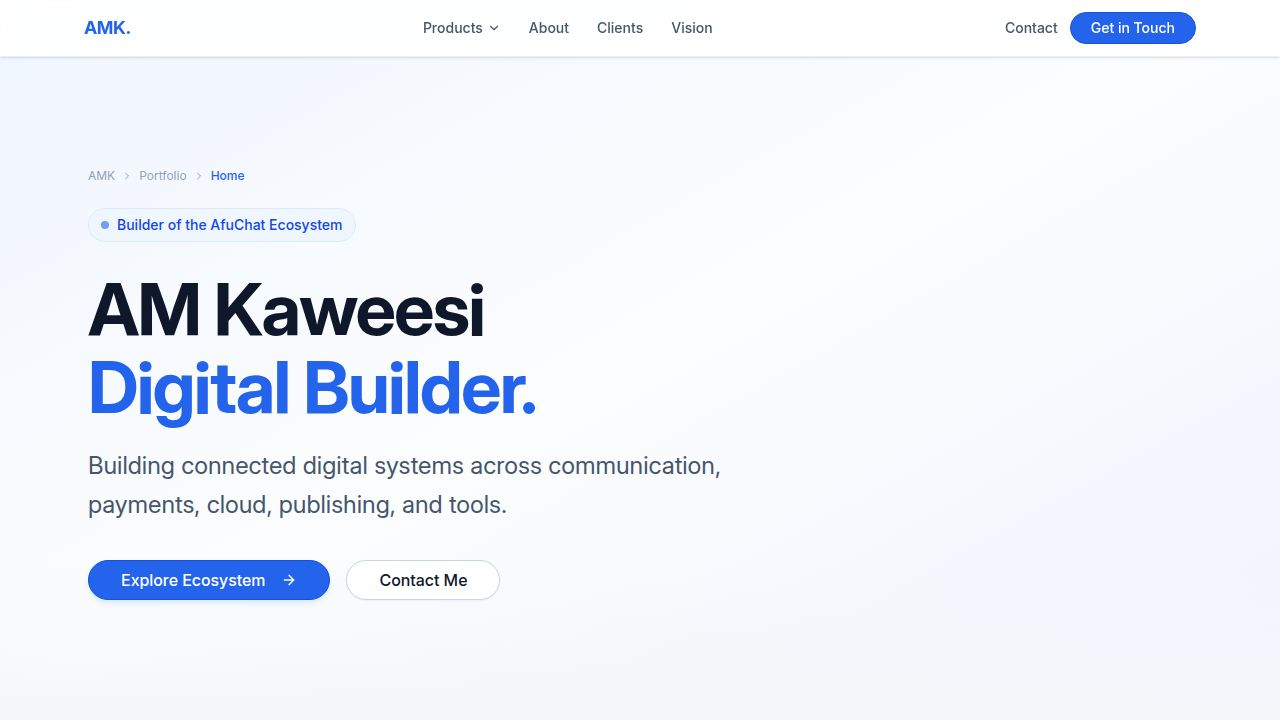
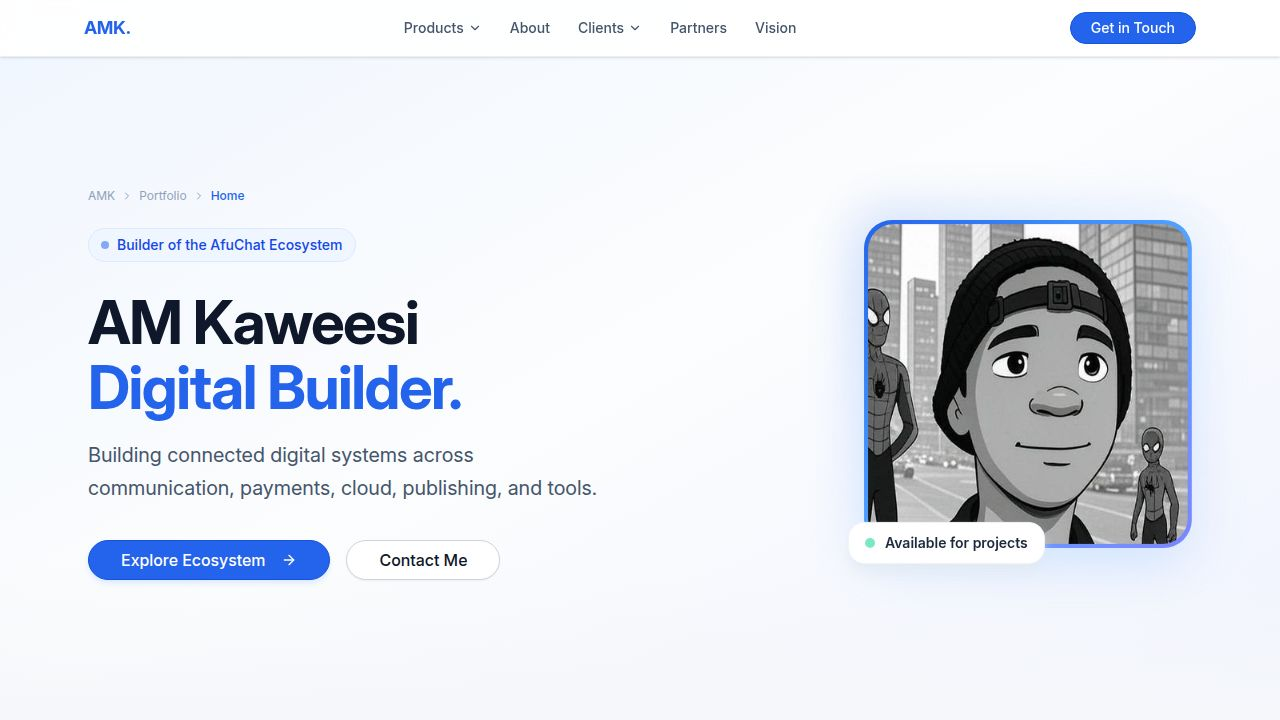
Add client dropdown to navigation bar
Update NavDropdown component to accept dynamic footer prop and add a dropdown for clients.

Replit-Commit-Author: Agent
Replit-Commit-Session-Id: 0222d471-abfd-4e89-a68e-2a255e0be9e9
Replit-Commit-Checkpoint-Type: full_checkpoint
Replit-Commit-Event-Id: 7c8f17c2-ce48-4627-ae95-2ed7346209d0
Replit-Commit-Screenshot-Url: https://storage.googleapis.com/screenshot-production-us-central1/f292942e-9a10-466a-ab8b-229b69c8f545/0222d471-abfd-4e89-a68e-2a255e0be9e9/ioWXq6E
Replit-Helium-Checkpoint-Created: true

diff --git a/artifacts/portfolio/src/pages/Home.tsx b/artifacts/portfolio/src/pages/Home.tsx
@@ -120,12 +120,15 @@ const navItems: NavItem[] = [
     dropdown: projects.map((p) => ({ name: p.name, desc: p.desc, href: `https://${p.domain}`, domain: p.domain, logoUrl: p.logoUrl, icon: p.icon })),
   },
   { label: "About", href: "#about" },
-  { label: "Clients", href: "#clients" },
+  {
+    label: "Clients",
+    dropdown: clients.map((c) => ({ name: c.name, desc: c.desc, href: `https://${c.domain}`, domain: c.domain, logoUrl: c.logoUrl, icon: c.icon })),
+  },
   { label: "Partners", href: "#partners" },
   { label: "Vision", href: "#vision" },
 ];
 
-function NavDropdown({ items }: { items: DropdownItem[] }) {
+function NavDropdown({ items, footer }: { items: DropdownItem[]; footer: { text: string; href: string; linkLabel: string } }) {
   return (
     <motion.div
       initial={{ opacity: 0, y: 8, scale: 0.97 }}
@@ -163,9 +166,9 @@ function NavDropdown({ items }: { items: DropdownItem[] }) {
         ))}
       </div>
       <div className="border-t border-slate-100 px-5 py-3 bg-slate-50/60 flex items-center justify-between">
-        <span className="text-xs text-slate-500">{projects.length} services in the AfuChat ecosystem</span>
-        <a href="#ecosystem" className="text-xs font-medium text-primary flex items-center gap-1 hover:underline">
-          View all <ArrowRight className="w-3 h-3" />
+        <span className="text-xs text-slate-500">{footer.text}</span>
+        <a href={footer.href} className="text-xs font-medium text-primary flex items-center gap-1 hover:underline">
+          {footer.linkLabel} <ArrowRight className="w-3 h-3" />
         </a>
       </div>
     </motion.div>
@@ -262,7 +265,14 @@ export default function Home() {
                 )}
                 <AnimatePresence>
                   {item.dropdown && activeDropdown === item.label && (
-                    <NavDropdown items={item.dropdown} />
+                    <NavDropdown
+                      items={item.dropdown}
+                      footer={
+                        item.label === "Clients"
+                          ? { text: `${clients.length} active client${clients.length !== 1 ? "s" : ""}`, href: "#clients", linkLabel: "View all" }
+                          : { text: `${projects.length} services in the AfuChat ecosystem`, href: "#ecosystem", linkLabel: "View all" }
+                      }
+                    />
                   )}
                 </AnimatePresence>
               </div>
